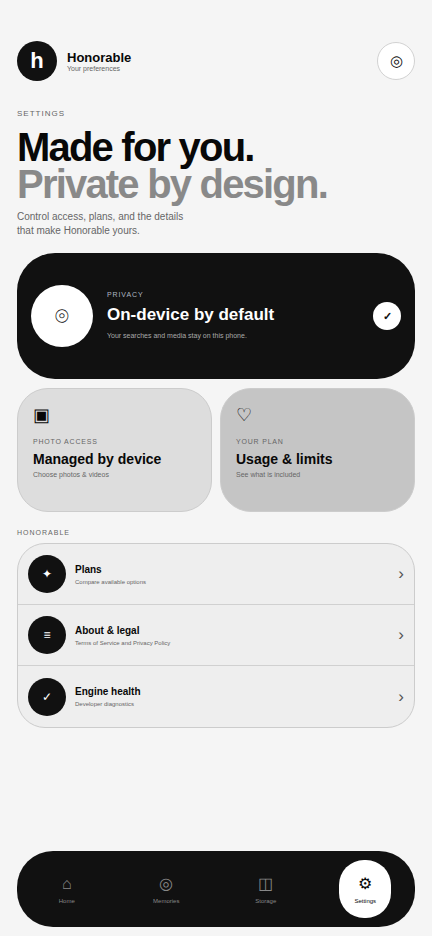
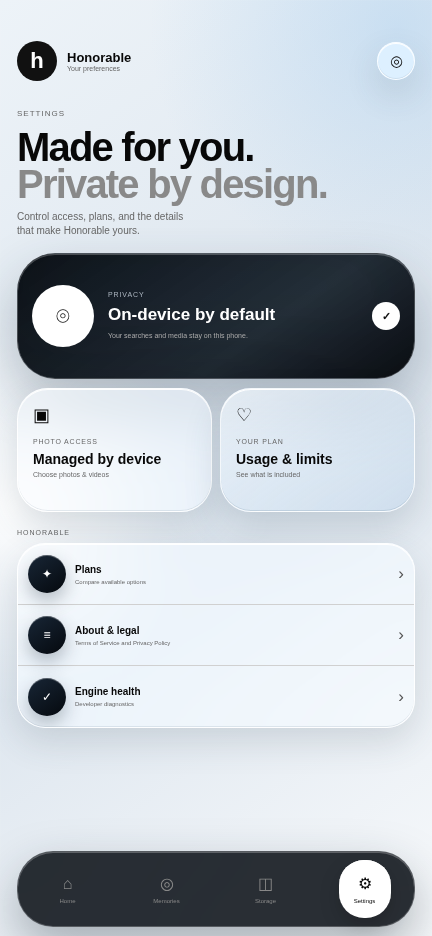
Apply sharp glass material across UI

diff --git a/Honorable-mobile-app-main/mobile-react-native/src/screens/SettingsScreen.tsx b/Honorable-mobile-app-main/mobile-react-native/src/screens/SettingsScreen.tsx
@@ -7,15 +7,16 @@ import type{NativeStackNavigationProp}from'@react-navigation/native-stack';
 import{Text}from'@/components/ui/text';
 import type{RootStackParamList}from'../navigation/types';
 
-const p={bg:'#F5F5F5',ink:'#0B0B0C',muted:'#686868',soft:'#DEDEDE',strong:'#C8C8C8',line:'#CECECE',white:'#FFFFFF'};
+const p={bg:'#E9EEF4',ink:'#071018',muted:'#53606C',soft:'rgba(255,255,255,.52)',strong:'rgba(213,224,235,.62)',line:'rgba(255,255,255,.82)',white:'#FFFFFF'};
+const glassDepth={shadowColor:'#34495C',shadowOffset:{width:0,height:14},shadowOpacity:.18,shadowRadius:24,elevation:7};
 function Row({icon,title,detail,onPress}:{icon:React.ReactNode;title:string;detail:string;onPress?:()=>void}){return <Pressable accessibilityRole="button" disabled={!onPress} onPress={onPress} style={[s.row,!onPress&&s.disabled]}><View style={s.rowIcon}>{icon}</View><View style={s.rowCopy}><Text style={s.rowTitle}>{title}</Text><Text style={s.rowDetail}>{detail}</Text></View><ChevronRight color={p.muted} size={18}/></Pressable>}
 
 export function SettingsScreen(){const navigation=useNavigation<NativeStackNavigationProp<RootStackParamList>>();return <SafeAreaView edges={['top']} style={s.safe}><ScrollView contentContainerStyle={s.content}>
   <View style={s.brand}><View style={s.mark}><Text style={s.markText}>h</Text></View><View><Text style={s.brandName}>Honorable</Text><Text style={s.brandDetail}>Your preferences</Text></View><View style={s.profile}><CircleUserRound color={p.ink} size={18}/></View></View>
   <View style={s.intro}><Text style={s.eyebrow}>SETTINGS</Text><Text accessibilityRole="header" style={s.title}>Made for you.</Text><Text style={[s.title,s.titleMuted]}>Private by design.</Text><Text style={s.subtitle}>Control access, plans, and the details that make Honorable yours.</Text></View>
   <View style={s.privacyCard}><View style={s.privacyIcon}><ShieldCheck color={p.ink} size={22}/></View><View style={s.privacyCopy}><Text style={s.privacyLabel}>PRIVACY</Text><Text style={s.privacyTitle}>On-device by default</Text><Text style={s.privacyDetail}>Your searches and media stay on this phone.</Text></View><View style={s.check}><Check color={p.ink} size={15}/></View></View>
-  <View style={s.quickGrid}><Pressable style={s.quick} onPress={()=>Linking.openSettings()}><Images color={p.ink} size={20}/><Text style={s.quickLabel}>PHOTO ACCESS</Text><Text style={s.quickTitle}>Managed by device</Text><Text style={s.quickDetail}>Choose photos & videos</Text></Pressable><Pressable style={[s.quick,s.quickStrong]} onPress={()=>navigation.navigate('Usage')}><Heart color={p.ink} size={20}/><Text style={s.quickLabel}>YOUR PLAN</Text><Text style={s.quickTitle}>Usage & limits</Text><Text style={s.quickDetail}>See what is included</Text></Pressable></View>
-  <Text style={s.sectionLabel}>HONORABLE</Text><View style={s.rows}><Row icon={<Sparkles color={p.white} size={16}/>} title="Plans" detail="Compare available options" onPress={()=>navigation.navigate('Plans')}/><Row icon={<FileText color={p.white} size={16}/>} title="About & legal" detail="Terms of Service and Privacy Policy" onPress={()=>navigation.navigate('AboutLegal')}/><Row icon={<ShieldCheck color={p.white} size={16}/>} title="Engine health" detail="Developer diagnostics"/></View>
+  <View style={s.quickGrid}><Pressable style={[s.quick,glassDepth]} onPress={()=>Linking.openSettings()}><Images color={p.ink} size={20}/><Text style={s.quickLabel}>PHOTO ACCESS</Text><Text style={s.quickTitle}>Managed by device</Text><Text style={s.quickDetail}>Choose photos & videos</Text></Pressable><Pressable style={[s.quick,s.quickStrong,glassDepth]} onPress={()=>navigation.navigate('Usage')}><Heart color={p.ink} size={20}/><Text style={s.quickLabel}>YOUR PLAN</Text><Text style={s.quickTitle}>Usage & limits</Text><Text style={s.quickDetail}>See what is included</Text></Pressable></View>
+  <Text style={s.sectionLabel}>HONORABLE</Text><View style={[s.rows,glassDepth]}><Row icon={<Sparkles color={p.white} size={16}/>} title="Plans" detail="Compare available options" onPress={()=>navigation.navigate('Plans')}/><Row icon={<FileText color={p.white} size={16}/>} title="About & legal" detail="Terms of Service and Privacy Policy" onPress={()=>navigation.navigate('AboutLegal')}/><Row icon={<ShieldCheck color={p.white} size={16}/>} title="Engine health" detail="Developer diagnostics"/></View>
 </ScrollView></SafeAreaView>}
 
 const s=StyleSheet.create({safe:{flex:1,backgroundColor:p.bg},content:{paddingHorizontal:17,paddingTop:10,paddingBottom:104},brand:{height:58,flexDirection:'row',alignItems:'center'},mark:{width:40,height:40,borderRadius:20,alignItems:'center',justifyContent:'center',backgroundColor:p.ink},markText:{color:p.white,fontSize:22,fontWeight:'700'},brandName:{marginLeft:10,color:p.ink,fontSize:13,fontWeight:'700'},brandDetail:{marginLeft:10,color:p.muted,fontSize:8},profile:{marginLeft:'auto',width:38,height:38,borderRadius:19,borderWidth:1,borderColor:p.line,backgroundColor:p.white,alignItems:'center',justifyContent:'center'},intro:{marginTop:12},eyebrow:{color:p.muted,fontSize:9,fontWeight:'600',letterSpacing:1.2},title:{marginTop:8,color:p.ink,fontSize:40,lineHeight:38,fontWeight:'700',letterSpacing:-1.7},titleMuted:{marginTop:-2,color:'#898989'},subtitle:{maxWidth:315,marginTop:7,color:p.muted,fontSize:12,lineHeight:17},privacyCard:{height:126,marginTop:16,padding:14,borderRadius:38,backgroundColor:p.ink,flexDirection:'row',alignItems:'center'},privacyIcon:{width:62,height:62,borderRadius:31,backgroundColor:p.white,alignItems:'center',justifyContent:'center'},privacyCopy:{flex:1,paddingLeft:14},privacyLabel:{color:'#AEB7C2',fontSize:8,fontWeight:'600',letterSpacing:1},privacyTitle:{marginTop:6,color:p.white,fontSize:18,fontWeight:'700'},privacyDetail:{maxWidth:205,marginTop:5,color:'#AAAAAA',fontSize:9,lineHeight:12},check:{width:28,height:28,borderRadius:14,backgroundColor:p.white,alignItems:'center',justifyContent:'center'},quickGrid:{marginTop:9,flexDirection:'row',gap:8},quick:{width:'48.8%',height:124,padding:16,borderRadius:31,borderWidth:1,borderColor:p.line,backgroundColor:p.soft},quickStrong:{backgroundColor:p.strong},quickLabel:{marginTop:12,color:p.muted,fontSize:8,fontWeight:'600',letterSpacing:.8},quickTitle:{marginTop:5,color:p.ink,fontSize:16,fontWeight:'700'},quickDetail:{marginTop:4,color:p.muted,fontSize:8},sectionLabel:{marginTop:18,marginBottom:7,color:p.muted,fontSize:8,fontWeight:'600',letterSpacing:1},rows:{borderRadius:28,overflow:'hidden',borderWidth:1,borderColor:p.line,backgroundColor:'#EEEEEE'},row:{minHeight:66,paddingHorizontal:10,flexDirection:'row',alignItems:'center',borderBottomWidth:StyleSheet.hairlineWidth,borderBottomColor:p.line},disabled:{opacity:.72},rowIcon:{width:38,height:38,borderRadius:19,backgroundColor:p.ink,alignItems:'center',justifyContent:'center'},rowCopy:{flex:1,paddingLeft:10},rowTitle:{color:p.ink,fontSize:11,fontWeight:'700'},rowDetail:{marginTop:4,color:p.muted,fontSize:8}});

diff --git a/Honorable-mobile-app-main/mobile-react-native/src/screens/StorageScreen.tsx b/Honorable-mobile-app-main/mobile-react-native/src/screens/StorageScreen.tsx
@@ -6,13 +6,14 @@ import{Text}from'@/components/ui/text';
 import{honorableNative}from'../native/HonorableNative';
 
 type Status={engine:'REAL';permissionGranted:boolean;indexedCount:number;status:string};
-const p={bg:'#F5F5F5',ink:'#0B0B0C',muted:'#686868',soft:'#DEDEDE',strong:'#C8C8C8',line:'#CECECE',white:'#FFFFFF',ring:'#BEC9D7'};
+const p={bg:'#E9EEF4',ink:'#071018',muted:'#53606C',soft:'rgba(255,255,255,.52)',strong:'rgba(213,224,235,.62)',line:'rgba(255,255,255,.82)',white:'#FFFFFF',ring:'#C9D9E8'};
+const glassDepth={shadowColor:'#34495C',shadowOffset:{width:0,height:14},shadowOpacity:.18,shadowRadius:24,elevation:7};
 
 function Metric({label,value,detail,strong=false}:{label:string;value:string;detail:string;strong?:boolean}){
-  return <View style={[s.metric,strong&&s.metricStrong]}><Text style={s.metricLabel}>{label}</Text><Text style={s.metricValue}>{value}</Text><Text style={s.metricDetail}>{detail}</Text></View>;
+  return <View style={[s.metric,strong&&s.metricStrong,glassDepth]}><Text style={s.metricLabel}>{label}</Text><Text style={s.metricValue}>{value}</Text><Text style={s.metricDetail}>{detail}</Text></View>;
 }
 function Action({icon,title,detail,onPress}:{icon:React.ReactNode;title:string;detail:string;onPress?:()=>void}){
-  return <Pressable accessibilityRole="button" disabled={!onPress} onPress={onPress} style={[s.action,!onPress&&s.disabled]}><View style={s.actionIcon}>{icon}</View><View style={s.actionCopy}><Text style={s.actionTitle}>{title}</Text><Text style={s.actionDetail}>{detail}</Text></View><ChevronRight color={p.muted} size={17}/></Pressable>;
+  return <Pressable accessibilityRole="button" disabled={!onPress} onPress={onPress} style={[s.action,glassDepth,!onPress&&s.disabled]}><View style={s.actionIcon}>{icon}</View><View style={s.actionCopy}><Text style={s.actionTitle}>{title}</Text><Text style={s.actionDetail}>{detail}</Text></View><ChevronRight color={p.muted} size={17}/></Pressable>;
 }
 
 export function StorageScreen(){
@@ -28,7 +29,7 @@ export function StorageScreen(){
       <View style={s.indexCard}><View style={s.progressRing}><Text style={s.progressValue}>{ready?'100':'••'}<Text style={s.progressUnit}>%</Text></Text></View><View style={s.indexCopy}><Text style={s.indexLabel}>SEARCH INDEX</Text><Text style={s.indexValue}>{indexed} ready</Text><Text style={s.indexDetail}>{status?.status??'Status unavailable'}</Text></View><View style={s.check}><Check color={p.ink} size={16}/></View></View>
       <View style={s.metrics}><Metric label="INDEXED MEDIA" value={indexed} detail="Ready to search"/><Metric label="STATUS" value={ready?'Ready':'Working'} detail={status?.status??'Unavailable'} strong/><Metric label="INDEX STORAGE" value="On device" detail="Private database" strong/><Metric label="PHOTO ACCESS" value={status?.permissionGranted?'Granted':'Required'} detail="Managed by device"/></View>
       <View style={s.actions}><Action icon={<RefreshCw color={p.white} size={16}/>} title={refreshing?'Reindexing…':'Reindex library'} detail="Rebuild Honorable’s search index only" onPress={refreshing?undefined:reindex}/><Action icon={<Images color={p.white} size={16}/>} title="Manage photo access" detail="Choose photos and videos" onPress={()=>Linking.openSettings()}/></View>
-      <View style={s.safeNote}><View style={s.safeIcon}><Check color={p.white} size={14}/></View><View style={s.safeCopy}><Text style={s.safeTitle}>Your originals stay safe</Text><Text style={s.safeDetail}>Honorable never deletes photos or videos.</Text></View><Text style={s.cache}>Cache not measured</Text></View>
+      <View style={[s.safeNote,glassDepth]}><View style={s.safeIcon}><Check color={p.white} size={14}/></View><View style={s.safeCopy}><Text style={s.safeTitle}>Your originals stay safe</Text><Text style={s.safeDetail}>Honorable never deletes photos or videos.</Text></View><Text style={s.cache}>Cache not measured</Text></View>
     </>}{!!error&&<Text style={s.error}>{error}</Text>}
   </ScrollView></SafeAreaView>;
 }

diff --git a/Honorable-mobile-app-main/ui-previews/render-overrides.css b/Honorable-mobile-app-main/ui-previews/render-overrides.css
@@ -367,3 +367,51 @@
 .video-timeline span { position: absolute; left: 0; right: 0; top: 9px; height: 4px; border-radius: 2px; background: #ccc; }.video-timeline i { position: absolute; left: 72%; top: 3px; width: 16px; height: 16px; border: 4px solid #111; border-radius: 50%; background: #fff; }.video-timeline b { position: absolute; left: 68%; top: 20px; font-size: 7px; }
 .moment-strip { display: grid; grid-template-columns: repeat(3,1fr); gap: 5px; margin-top: 7px; }.moment-strip i { height: 70px; border-radius: 18px; background-image: url('assets/honorable-preview-contact-sheet.png'); background-size: 300% 300%; }.moment-strip i.active { outline: 3px solid #111; outline-offset: 1px; }
 .video-safe { margin-top: 9px; padding: 10px 12px; border-radius: 18px; background: #e5e5e5; color: #555; font-size: 7px; }
+
+/* Ultra-sharp glass material shared by every current Bubble OS screen. */
+.phone.legacy {
+  background:
+    radial-gradient(circle at 92% 3%, rgba(142,193,237,.32), transparent 25%),
+    radial-gradient(circle at 3% 54%, rgba(255,255,255,.92), transparent 30%),
+    linear-gradient(145deg,#edf3f8 0%,#dce5ee 52%,#f7f9fb 100%) !important;
+}
+.legacy-brand > em,.localPill,.profile,
+.bubble-query,.cancel-search,.legacy-private,.legacy-local,
+.bubble-storage-grid > div,.bubble-storage-actions button,.bubble-storage-safe,
+.bubble-settings-grid > div,.bubble-settings-rows,.bubble-result-meta span,
+.bubble-filter-row > *,.video-safe,.moment-pill {
+  border-color: rgba(255,255,255,.88) !important;
+  background-color: rgba(255,255,255,.48) !important;
+  backdrop-filter: blur(24px) saturate(175%);
+  -webkit-backdrop-filter: blur(24px) saturate(175%);
+  box-shadow: inset 0 1px 0 rgba(255,255,255,.96), inset 0 -1px 0 rgba(105,129,150,.16), 0 14px 34px rgba(53,72,90,.16);
+}
+.legacy-bento > div,.bubble-storage-grid > div:nth-child(2),.bubble-storage-grid > div:nth-child(3),.bubble-settings-grid > div:nth-child(2) {
+  border-color: rgba(255,255,255,.76) !important;
+  background: linear-gradient(145deg,rgba(255,255,255,.58),rgba(189,207,223,.44)) !important;
+  backdrop-filter: blur(26px) saturate(180%);
+  box-shadow: inset 0 1px 0 #fff, inset 0 -1px 0 rgba(80,110,137,.18), 0 16px 36px rgba(52,72,91,.18);
+}
+.legacy-hero,.bubble-index,.bubble-privacy,.bubble-searching {
+  border: 1px solid rgba(255,255,255,.22);
+  background: linear-gradient(145deg,rgba(8,14,21,.98),rgba(20,31,42,.92) 62%,rgba(8,12,18,.98));
+  box-shadow: inset 0 1px 0 rgba(255,255,255,.24), inset 0 -30px 80px rgba(0,0,0,.24), 0 24px 54px rgba(34,51,68,.28);
+}
+.photo-hero,.video-image {
+  border: 1px solid rgba(255,255,255,.82);
+  box-shadow: inset 0 1px 0 rgba(255,255,255,.76), 0 22px 48px rgba(43,63,81,.26);
+}
+.legacy-dock {
+  border: 1px solid rgba(255,255,255,.22);
+  background: rgba(8,13,19,.86);
+  backdrop-filter: blur(28px) saturate(180%);
+  -webkit-backdrop-filter: blur(28px) saturate(180%);
+  box-shadow: inset 0 1px 0 rgba(255,255,255,.25), 0 20px 48px rgba(25,40,54,.34);
+}
+.legacy-dock span.active { box-shadow: inset 0 1px 0 #fff,0 8px 20px rgba(0,0,0,.2); }
+.bubble-filter-row b { background: rgba(8,13,19,.9) !important; border: 1px solid rgba(255,255,255,.2); color: #fff; }
+.bubble-query > i,.bubble-storage-actions i,.bubble-storage-safe > i,.bubble-settings-rows i,.video-copy > i {
+  background: linear-gradient(145deg,#182636,#05090e);
+  box-shadow: inset 0 1px 0 rgba(255,255,255,.28),0 8px 18px rgba(33,50,66,.3);
+}
+.bubble-ring { box-shadow: inset 0 0 0 2px rgba(255,255,255,.34),0 0 28px rgba(164,204,239,.22); }

diff --git a/Honorable-mobile-app-main/mobile-react-native/src/navigation/AppNavigator.tsx b/Honorable-mobile-app-main/mobile-react-native/src/navigation/AppNavigator.tsx
@@ -12,4 +12,4 @@ function TabIcon({name,color}:{name:keyof MainTabParamList;color:string}){return
 const HomeTab=()=> <TabTransition><HomeScreen/></TabTransition>;const MemoriesTab=()=> <TabTransition><MemoriesScreen/></TabTransition>;const StorageTab=()=> <TabTransition><StorageScreen/></TabTransition>;const SettingsTab=()=> <TabTransition><SettingsScreen/></TabTransition>;
 function MainTabs(){return <Tabs.Navigator screenListeners={({navigation,route})=>({tabPress:()=>{const state=navigation.getState();if(state.routes[state.index]?.key!==route.key)selectionHaptic()}})} screenOptions={({route})=>({headerShown:false,tabBarActiveTintColor:colors.ice,tabBarInactiveTintColor:colors.textMuted,tabBarStyle:styles.tabBar,tabBarLabelStyle:styles.label,tabBarIcon:({color})=><TabIcon color={color} name={route.name}/>})}><Tabs.Screen name="Home" component={HomeTab}/><Tabs.Screen name="Memories" component={MemoriesTab}/><Tabs.Screen name="Storage" component={StorageTab}/><Tabs.Screen name="Settings" component={SettingsTab}/></Tabs.Navigator>}
 export function AppNavigator(){return <Stack.Navigator screenOptions={{headerShown:false,animation:'slide_from_right'}}><Stack.Screen name="MainTabs" component={MainTabs}/><Stack.Screen name="Plans" component={PlansScreen}/><Stack.Screen name="Usage" component={UsageScreen}/><Stack.Screen name="AboutLegal" component={AboutLegalScreen}/><Stack.Screen name="TermsOfService" component={TermsOfServiceScreen}/><Stack.Screen name="PrivacyPolicy" component={PrivacyPolicyScreen}/><Stack.Screen name="LockedFeature" component={LockedFeatureScreen}/></Stack.Navigator>}
-const styles=StyleSheet.create({icon:{fontSize:19},tabBar:{position:'absolute',left:18,right:18,bottom:12,height:62,borderRadius:31,backgroundColor:'rgba(15,17,20,.96)',borderTopColor:'transparent',paddingTop:5},label:{fontSize:10,fontWeight:'600'}});
+const styles=StyleSheet.create({icon:{fontSize:19},tabBar:{position:'absolute',left:18,right:18,bottom:12,height:62,borderRadius:31,backgroundColor:'rgba(12,16,22,.86)',borderTopWidth:1,borderTopColor:'rgba(255,255,255,.22)',paddingTop:5,shadowColor:'#000',shadowOffset:{width:0,height:16},shadowOpacity:.34,shadowRadius:26,elevation:14},label:{fontSize:10,fontWeight:'600'}});

diff --git a/Honorable-mobile-app-main/mobile-react-native/src/components/HonorableSearchBar.tsx b/Honorable-mobile-app-main/mobile-react-native/src/components/HonorableSearchBar.tsx
@@ -4,4 +4,4 @@ import {Search,X} from 'lucide-react-native';
 import {Input} from '@/components/ui/input';
 import {colors,radii} from '../design-system/tokens';
 export function HonorableSearchBar({value,onChangeText,onSubmit,compact=false}:{value:string;onChangeText:(value:string)=>void;onSubmit:()=>void;compact?:boolean}){return <View style={[styles.shell,compact&&styles.compact]}><Search color={value?colors.accent:colors.iconMuted} size={20}/><Input accessibilityLabel="Describe a photo or video" returnKeyType="search" blurOnSubmit={false} onSubmitEditing={onSubmit} placeholder="Describe a memory…" placeholderTextColor={colors.textMuted} value={value} onChangeText={onChangeText} className="h-12 flex-1 border-0 bg-transparent px-0 text-[16px] text-foreground shadow-none"/>{!!value&&<Pressable accessibilityRole="button" accessibilityLabel="Clear search" hitSlop={10} onPress={()=>onChangeText('')}><X color={colors.iconMuted} size={19}/></Pressable>}</View>}
-const styles=StyleSheet.create({shell:{minHeight:58,marginHorizontal:16,paddingHorizontal:17,flexDirection:'row',alignItems:'center',gap:11,borderRadius:radii.lg,backgroundColor:'rgba(25,29,35,.94)',borderWidth:1,borderColor:'rgba(117,167,255,.22)'},compact:{minHeight:50,borderRadius:radii.md}});
+const styles=StyleSheet.create({shell:{minHeight:58,marginHorizontal:16,paddingHorizontal:17,flexDirection:'row',alignItems:'center',gap:11,borderRadius:radii.lg,backgroundColor:'rgba(31,38,48,.70)',borderWidth:1,borderColor:'rgba(214,231,255,.28)',shadowColor:'#000',shadowOffset:{width:0,height:12},shadowOpacity:.28,shadowRadius:22,elevation:8},compact:{minHeight:50,borderRadius:radii.md}});

diff --git a/Honorable-mobile-app-main/mobile-react-native/src/design-system/tokens.ts b/Honorable-mobile-app-main/mobile-react-native/src/design-system/tokens.ts
@@ -1,4 +1,4 @@
-export const colors={background:'#070809',surface:'#111316',surfaceRaised:'#181B20',floating:'rgba(14,17,21,0.92)',active:'rgba(76,139,226,0.22)',text:'#F5F5F2',textMuted:'#999DA4',icon:'#ECEDEB',iconMuted:'#858A92',separator:'rgba(255,255,255,0.10)',accent:'#75A7FF',selection:'#A8C8FF',danger:'#F07178',scrim:'rgba(0,0,0,0.58)',navyDeep:'#070809',navy:'#111316',glass:'#15181C',glassStrong:'#101216',cyan:'#75A7FF',blue:'#75A7FF',lilac:'#B6B2BE',mint:'#9AC6B5',blush:'#F07178',ice:'#F5F5F2',border:'rgba(255,255,255,0.10)'} as const;
+export const colors={background:'#07090C',surface:'rgba(24,29,36,0.72)',surfaceRaised:'rgba(37,44,54,0.78)',floating:'rgba(11,15,20,0.82)',active:'rgba(91,159,255,0.24)',text:'#FAFCFF',textMuted:'#AAB2BD',icon:'#F7FAFF',iconMuted:'#929BA7',separator:'rgba(255,255,255,0.14)',accent:'#82B4FF',selection:'#B7D3FF',danger:'#F47D84',scrim:'rgba(0,0,0,0.62)',navyDeep:'#07090C',navy:'rgba(18,23,30,0.86)',glass:'rgba(28,35,44,0.68)',glassStrong:'rgba(13,18,24,0.84)',cyan:'#82B4FF',blue:'#82B4FF',lilac:'#C5C0CF',mint:'#A8D2C2',blush:'#F47D84',ice:'#FAFCFF',border:'rgba(255,255,255,0.18)'} as const;
 export const spacing={xs:4,sm:8,md:12,lg:18,xl:24,xxl:36} as const;
 export const radii={sm:10,md:16,lg:24,pill:999} as const;
 export const typography={title:{fontSize:34,lineHeight:38,fontWeight:'700' as const,letterSpacing:-1.1},heading:{fontSize:21,lineHeight:27,fontWeight:'700' as const},body:{fontSize:16,lineHeight:23,fontWeight:'400' as const},label:{fontSize:12,lineHeight:16,fontWeight:'600' as const}} as const;

diff --git a/Honorable-mobile-app-main/mobile-react-native/src/design-system/HonorableGlassCard.tsx b/Honorable-mobile-app-main/mobile-react-native/src/design-system/HonorableGlassCard.tsx
@@ -2,4 +2,4 @@ import React, {PropsWithChildren} from 'react';
 import {StyleSheet, View, ViewStyle} from 'react-native';
 import {colors, radii, spacing} from './tokens';
 export function HonorableGlassCard({children, style}: PropsWithChildren<{style?: ViewStyle}>) { return <View style={[styles.card, style]}>{children}</View>; }
-const styles = StyleSheet.create({card: {padding: spacing.lg, borderRadius: radii.lg, borderWidth: 1, borderColor: colors.border, backgroundColor: colors.glass}});
+const styles = StyleSheet.create({card: {padding:spacing.lg,borderRadius:radii.lg,borderWidth:1,borderColor:colors.border,backgroundColor:colors.glass,shadowColor:'#000',shadowOffset:{width:0,height:14},shadowOpacity:.24,shadowRadius:24,elevation:8}});
